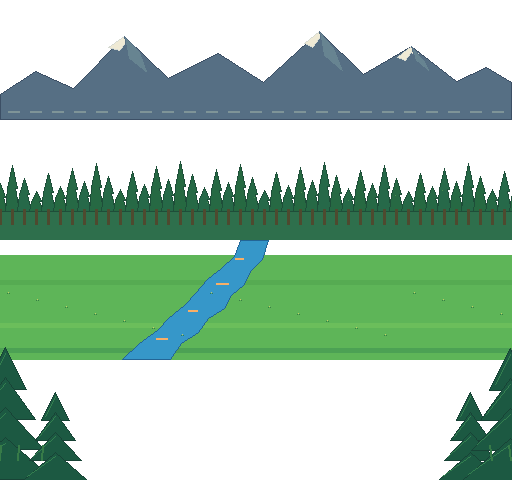
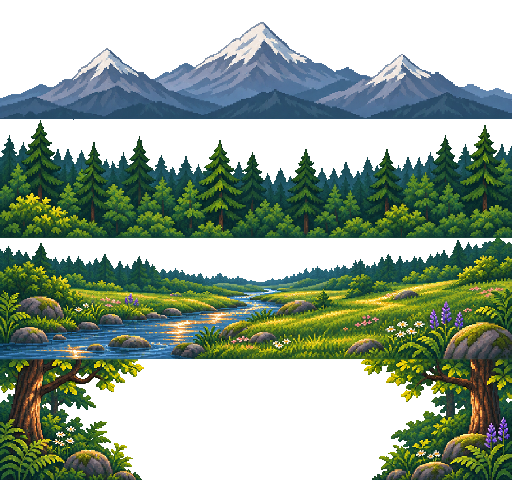
0.4.8: Mark's new start screen and cursors
The redrawn title art (layers, carved sign with the emblem, script logo)
and Mark's two cursors, shrunk to 24 x 24 with the point in the corner.
The art cleanup tool gains top-left anchoring and an edge_ok cell option.

diff --git a/tools/art_cleanup.py b/tools/art_cleanup.py
@@ -136,9 +136,11 @@ def parts_in(img, x0, y0, x1, y1, step=3):
     return len(big), bbox, touches
 
 
-def shrink(img, box, tw, th, stretch, full):
+def shrink(img, box, tw, th, stretch, full, anchor="bottom"):
     """Shrinks the box to tw x th by the most common color per block. Keeps
-    the item's shape unless stretched, standing it on the bottom middle."""
+    the item's shape unless stretched, standing it on the bottom middle, or
+    with anchor "top_left" in the top-left corner (a cursor, whose point
+    must be the corner pixel)."""
     bx0, by0, bx1, by1 = box
     bw, bh = bx1 - bx0, by1 - by0
     if stretch or full:
@@ -148,7 +150,7 @@ def shrink(img, box, tw, th, stretch, full):
         s = max(bw / tw, bh / th)
         sx = sy = s
         ow, oh = max(1, round(bw / s)), max(1, round(bh / s))
-        ox, oy = (tw - ow) // 2, th - oh
+        ox, oy = (0, 0) if anchor == "top_left" else ((tw - ow) // 2, th - oh)
     out = [(0, 0, 0, 0)] * (tw * th)
     for ty in range(oh):
         for tx in range(ow):
@@ -422,12 +424,14 @@ def main():
                 results.append((cell["name"], "FAIL", "no item found in its cell"))
                 continue
             problems = []
-            if touches:
+            # "edge_ok": the item may touch its cell's edge (a cursor drawn
+            # right up to the border of its picture).
+            if touches and not cell.get("edge_ok"):
                 problems.append("item crosses its cell edge")
             expected = cell.get("parts", 1)
             if parts > expected:
                 problems.append("%d separate pieces, expected %d" % (parts, expected))
-            pix = shrink(img, box, tw, th, cell.get("stretch", False), full)
+            pix = shrink(img, box, tw, th, cell.get("stretch", False), full, cell.get("anchor", "bottom"))
             sheet_cells.append((cell["name"], tw, th))
             # A failed image is reported, not used: the stand-in stays in play.
             if not problems or entry.get("sheet"):

diff --git a/README.md b/README.md
@@ -4,7 +4,7 @@ A cozy top-down pixel game about a park ranger in a vast, quietly magical
 wilderness. This repository holds phases one, 2a, 2b and 3. See `docs/` for the
 game bible, roadmap, phase specs and working rules.
 
-**Current version: 0.4.7** (see [Version history](#version-history)). The
+**Current version: 0.4.8** (see [Version history](#version-history)). The
 version shows on the title screen and in the debug panel, and V shows it in
 play.
 
@@ -100,6 +100,11 @@ docs/              bible, roadmap, specs, rules, status reports (hidden from God
 
 The version lives in `project.godot` (`application/config/version`). Every
 commit of the build raises it and adds a line here.
+
+### 0.4.8 (18 November 2026): Mark's new start screen and cursors
+
+- A new start screen from Mark (Art Request 11, redrawn): detailed mountains, a pine ridge, the Dusk River meadow framed by trees, a carved "Welcome to Dusk River Park" sign that carries the park's emblem, and a script "Strange Ranger" logo. The menu's words are cream with a dark edge, to read over the plank's grain.
+- Mark's cursors (Art Request 15): the pointer, and the pointer with a green plus over forage in reach. He drew them large; `tools/art_cleanup.py` shrinks them to 24 x 24 with the point in the top-left pixel (new `anchor: "top_left"` and `edge_ok` cell options in `tools/art_manifest.json`).
 
 ### 0.4.7 (18 November 2026): the tracker's first list
 

diff --git a/art/cleanup_report.md b/art/cleanup_report.md
@@ -1,7 +1,7 @@
 # Art cleanup report
 
 Made by tools/art_cleanup.py. palette from art/palette.json (33 colors). A picture cut pixel for pixel from a refresh sheet replaces any earlier picture of the same name.
-419 images passed, 1 failed.
+421 images passed, 1 failed.
 
 
 ## ChatGPT Image Nov 15, 2026, 07_04_59 AM.png (ground tiles)
@@ -578,6 +578,11 @@ Made by tools/art_cleanup.py. palette from art/palette.json (33 colors). A pictu
 - badge_strange_16: **pass** 24x24 pixel for pixel
 - badge_strange_17: **pass** 24x24 pixel for pixel
 - badge_locked: **pass** 24x24 pixel for pixel
+
+## ar15_cursors.png (Art Request 15: the pointer, and the pointer with a green plus over forage (Mark drew them large, shaded version used; shrunk to 24 x 24 with the arrow's point in the top-left pixel))
+
+- cursor_arrow: **pass** 24x24
+- cursor_pick: **pass** 24x24
 
 ## calm_ground_a.png
 
